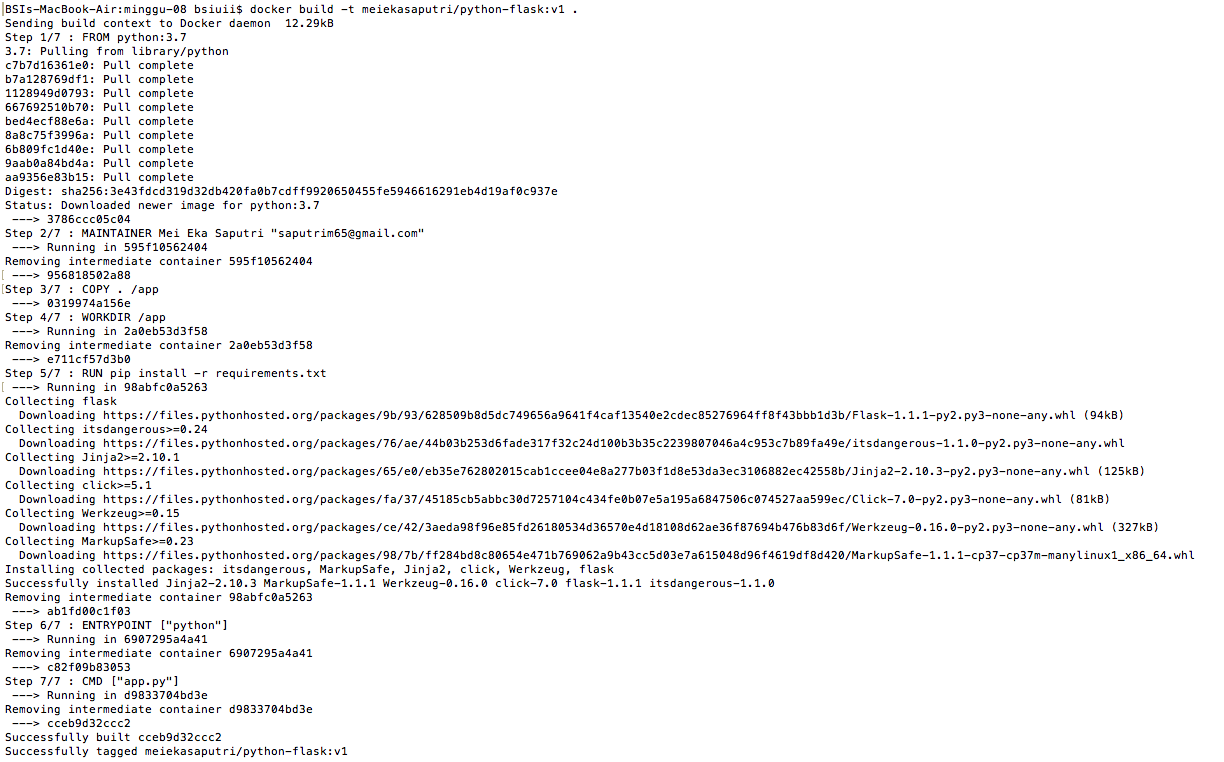
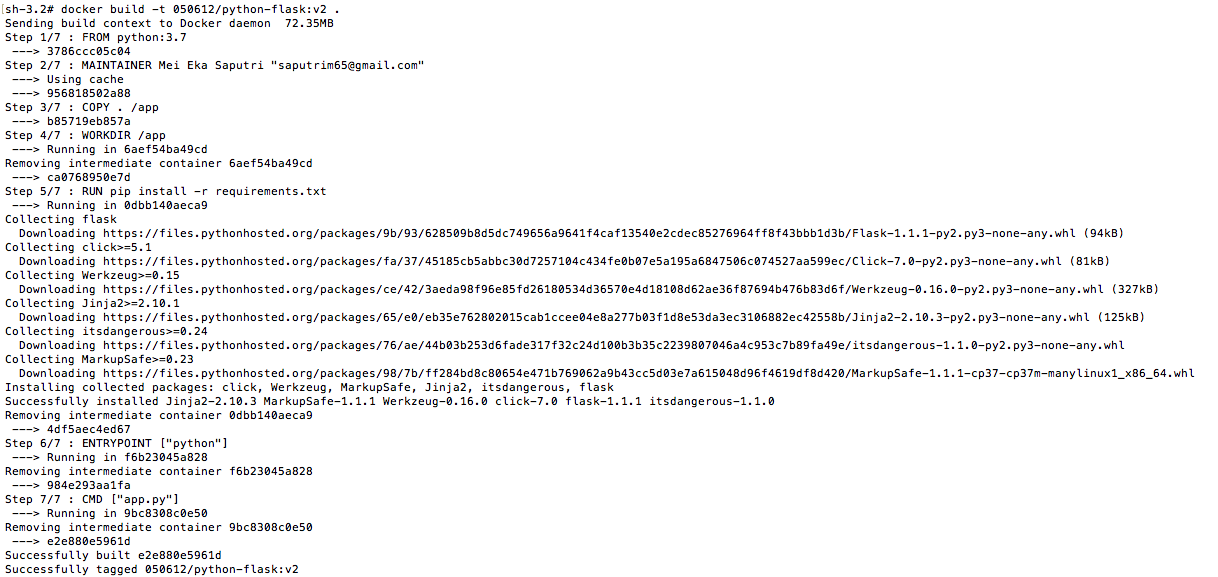
Laporan Minggu-08

Changed region(s): [[0.0, 0.0, 0.9984, 0.9983]]

diff --git a/app.py b/app.py
@@ -1,0 +1,13 @@
+from flask import Flask
+import os
+
+app = Flask(__name__)
+
+@app.route("/")
+def hello():
+    return "Membuat aplikasi menggunakan Python dan Flask pada Docker"
+
+
+if __name__ == "__main__":
+    port = int(os.environ.get("PORT", 5000))
+    app.run(debug=True,host='0.0.0.0',port=port)

diff --git a/minggu-08/laporan-08.md b/minggu-08/laporan-08.md
@@ -11,10 +11,8 @@
 3. Membuat Dockerfile.
    ![](tcc6/3.png)
 
-4. Build images docker dengan perintah berikut :
+4. Build images docker, dockerhub saya menggunakan ID (050612) dengan perintah berikut :
    ![](tcc6/4.png)
-   Namun karena dockerhub saya menggunakan ID (050612) jadi saya ubah namanya menjadi seperti berikut :
-   ![](tcc6/4a.png)
 
 5. Cek images menggunakan perintah docker images.
    ![](tcc6/5.png)
@@ -36,5 +34,3 @@
 
 11. Browse app menggunakan URL http://localhost:5000 .
     ![](tcc6/11.png)
-
-12. 
